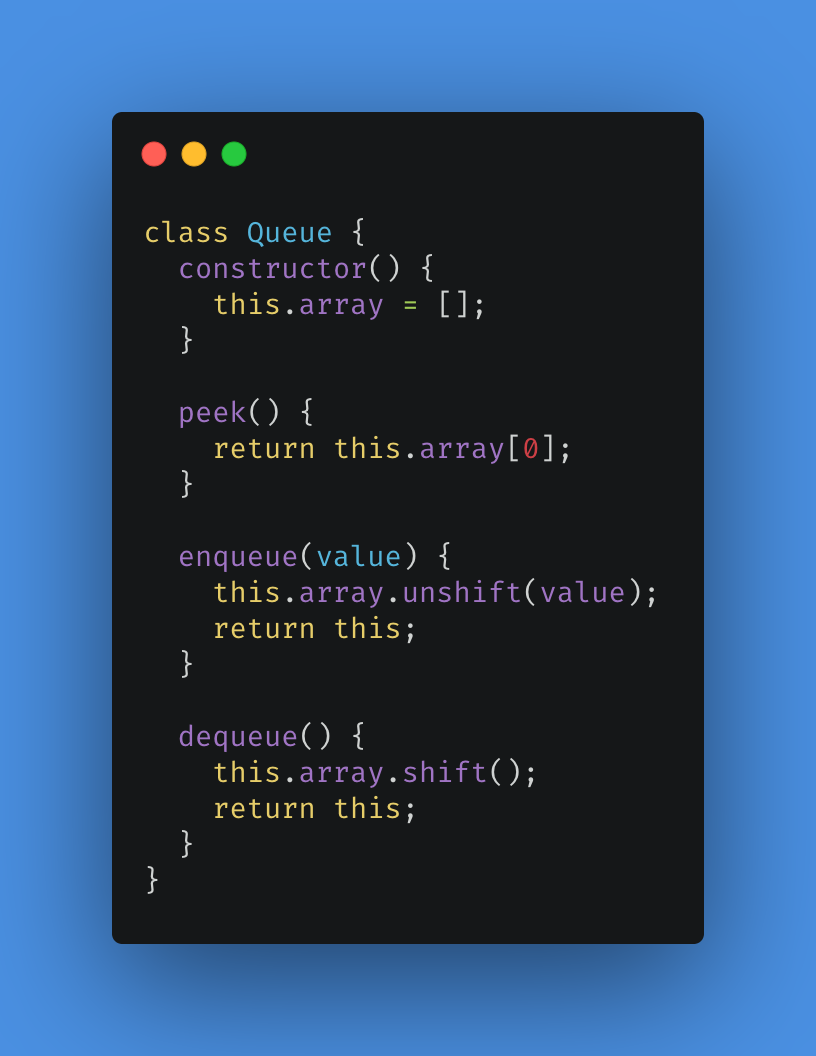
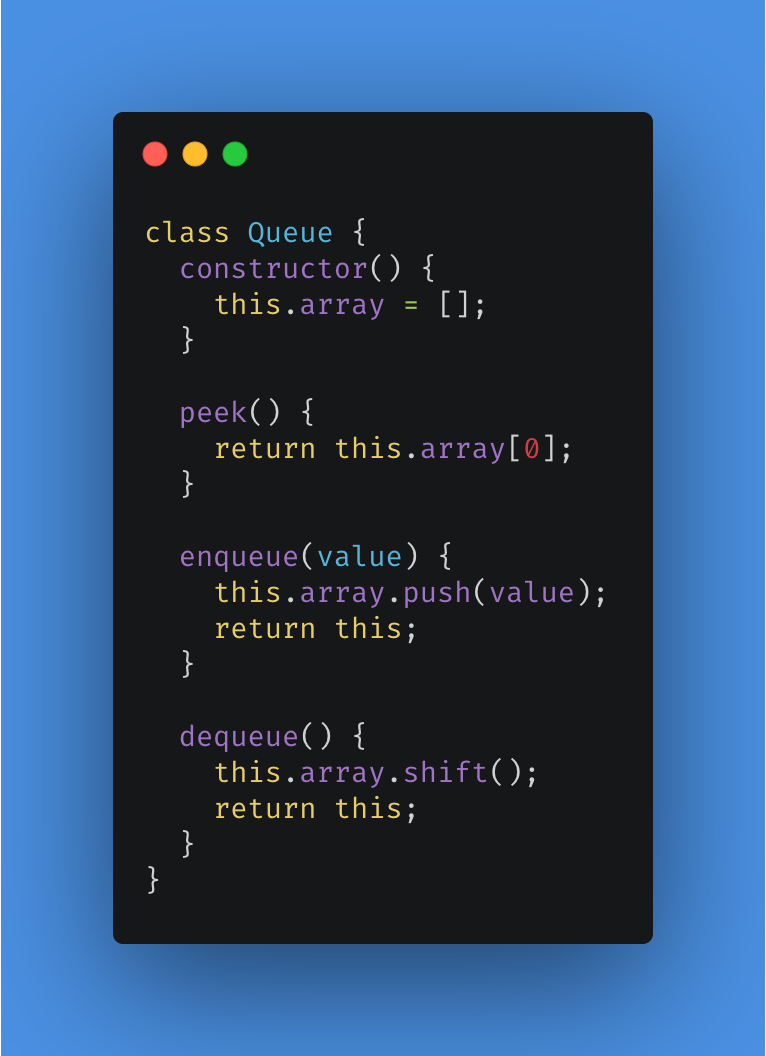
Fix Queue Implementation (Array)

diff --git a/002-data-structures/004-stacks-queues/carbon/004.js b/002-data-structures/004-stacks-queues/carbon/004.js
@@ -8,7 +8,7 @@ class Queue {
   }
 
   enqueue(value) {
-    this.array.unshift(value);
+    this.array.push(value);
     return this;
   }
 

diff --git a/002-data-structures/004-stacks-queues/004.js b/002-data-structures/004-stacks-queues/004.js
@@ -9,7 +9,7 @@
     }
 
     enqueue(value) {
-      this.array.unshift(value);
+      this.array.push(value);
       return this;
     }
 
